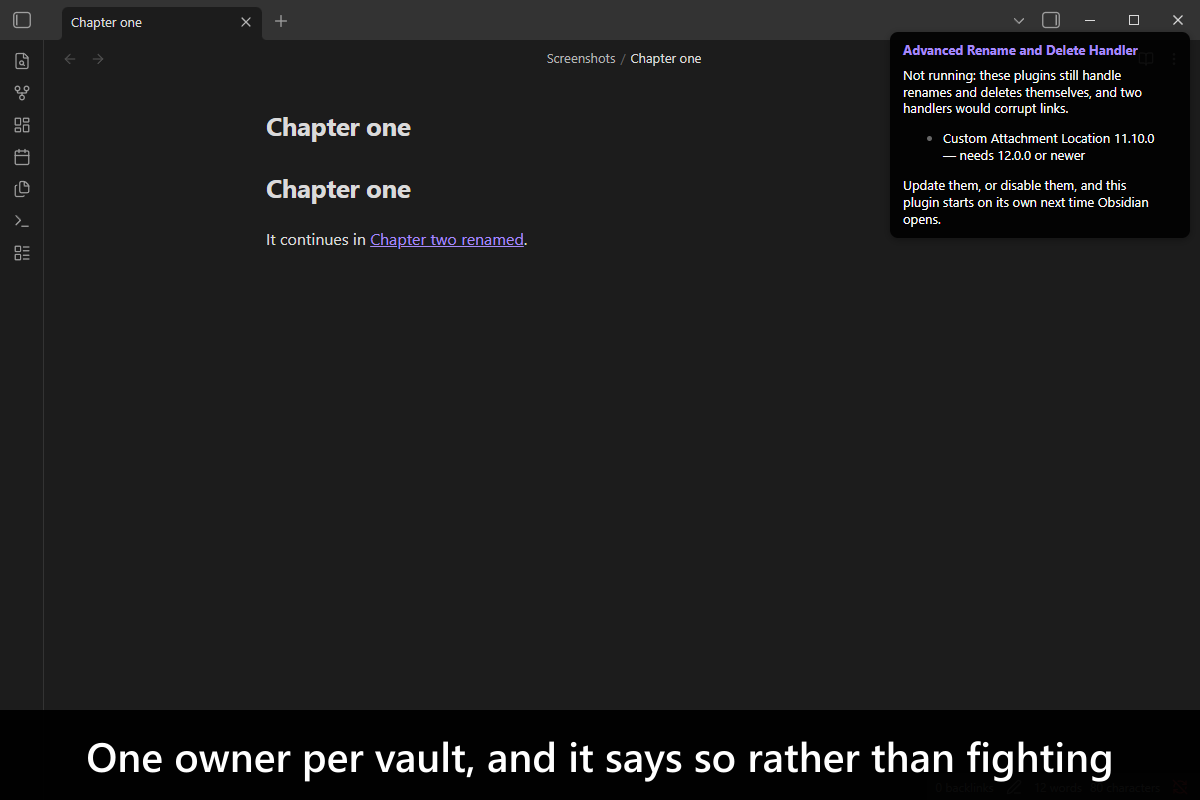
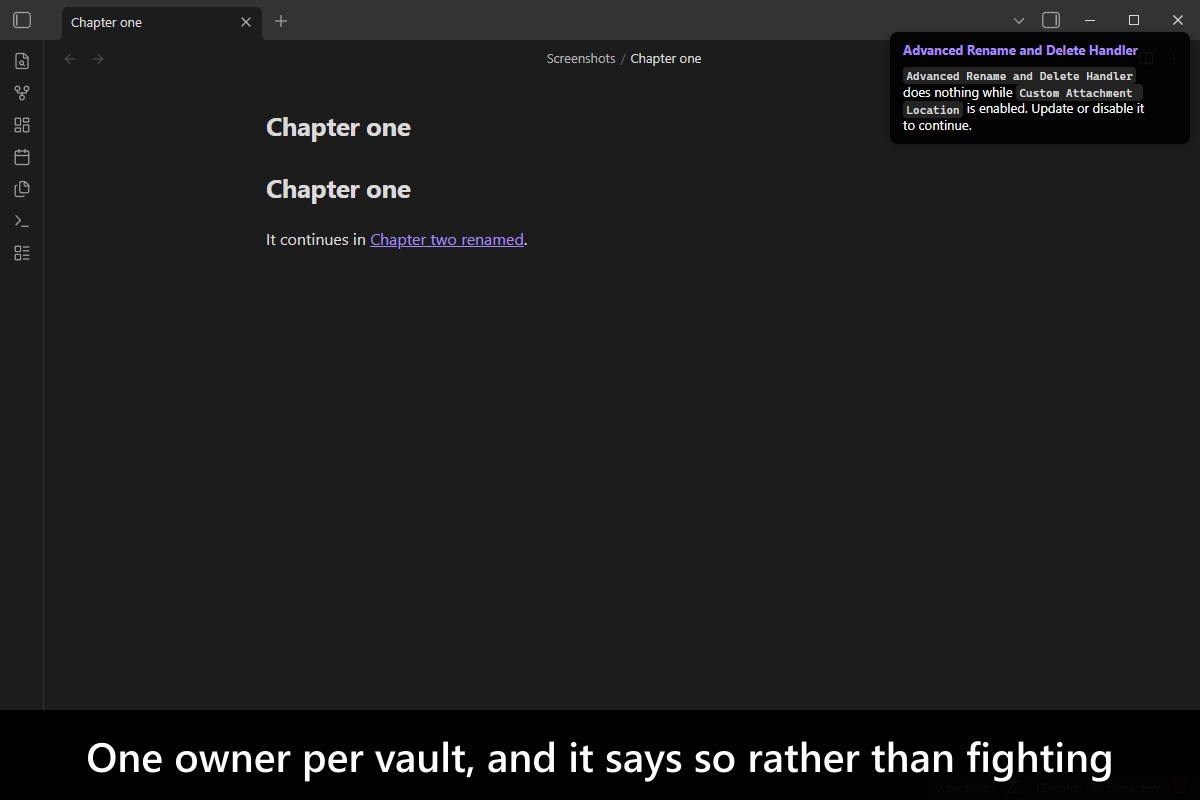
test: recapture the blocked store frame, and lift the conflict by disabling it
Shot 3 photographs the gate's notice now, not the deleted refusal one. Shots 1
and 2 reproduced their committed bytes, so the capture is still byte-stable and
the one frame that moved is the one whose UI changed.

The recovery half of the block suite removed the stub's folder and then the
cleanup removed it again, which threw ENOENT. Only an ENABLED plugin counts as a
conflict, so disabling the stub is enough to lift it, and the folder is left for
the one cleanup that owns it.

Changed region(s): [[0.74, 0.0625, 1.0, 0.3125]]

diff --git a/src/conflicting-plugin-block.cross-platform.integration.test.ts b/src/conflicting-plugin-block.cross-platform.integration.test.ts
@@ -134,10 +134,16 @@ describe('A plugin that still owns its own rename/delete handler', () => {
             isStillInstalled: Object.hasOwn(app.plugins.manifests, pluginId)
           };
 
-          // And now the other half: take the conflict away and the surface comes back.
+          /*
+           * And now the other half: take the conflict away and the surface comes back, with this plugin
+           * never having left the enabled list. Disabling the stub is enough — only an ENABLED plugin
+           * counts as a conflict — and the folder is left for the cleanup below to remove once.
+           *
+           * Reloaded rather than waited on: the gate refreshes itself when a conflicting plugin announces
+           * its own unload, and this stub is a bare Obsidian plugin that broadcasts nothing. A real one
+           * built on the same library needs no reload here.
+           */
           await app.plugins.disablePluginAndSave(conflictingPluginId);
-          await adapter.rmdir(pluginFolder, true);
-          await app.plugins.loadManifests();
           await app.plugins.disablePlugin(pluginId);
           await app.plugins.enablePlugin(pluginId);
 
